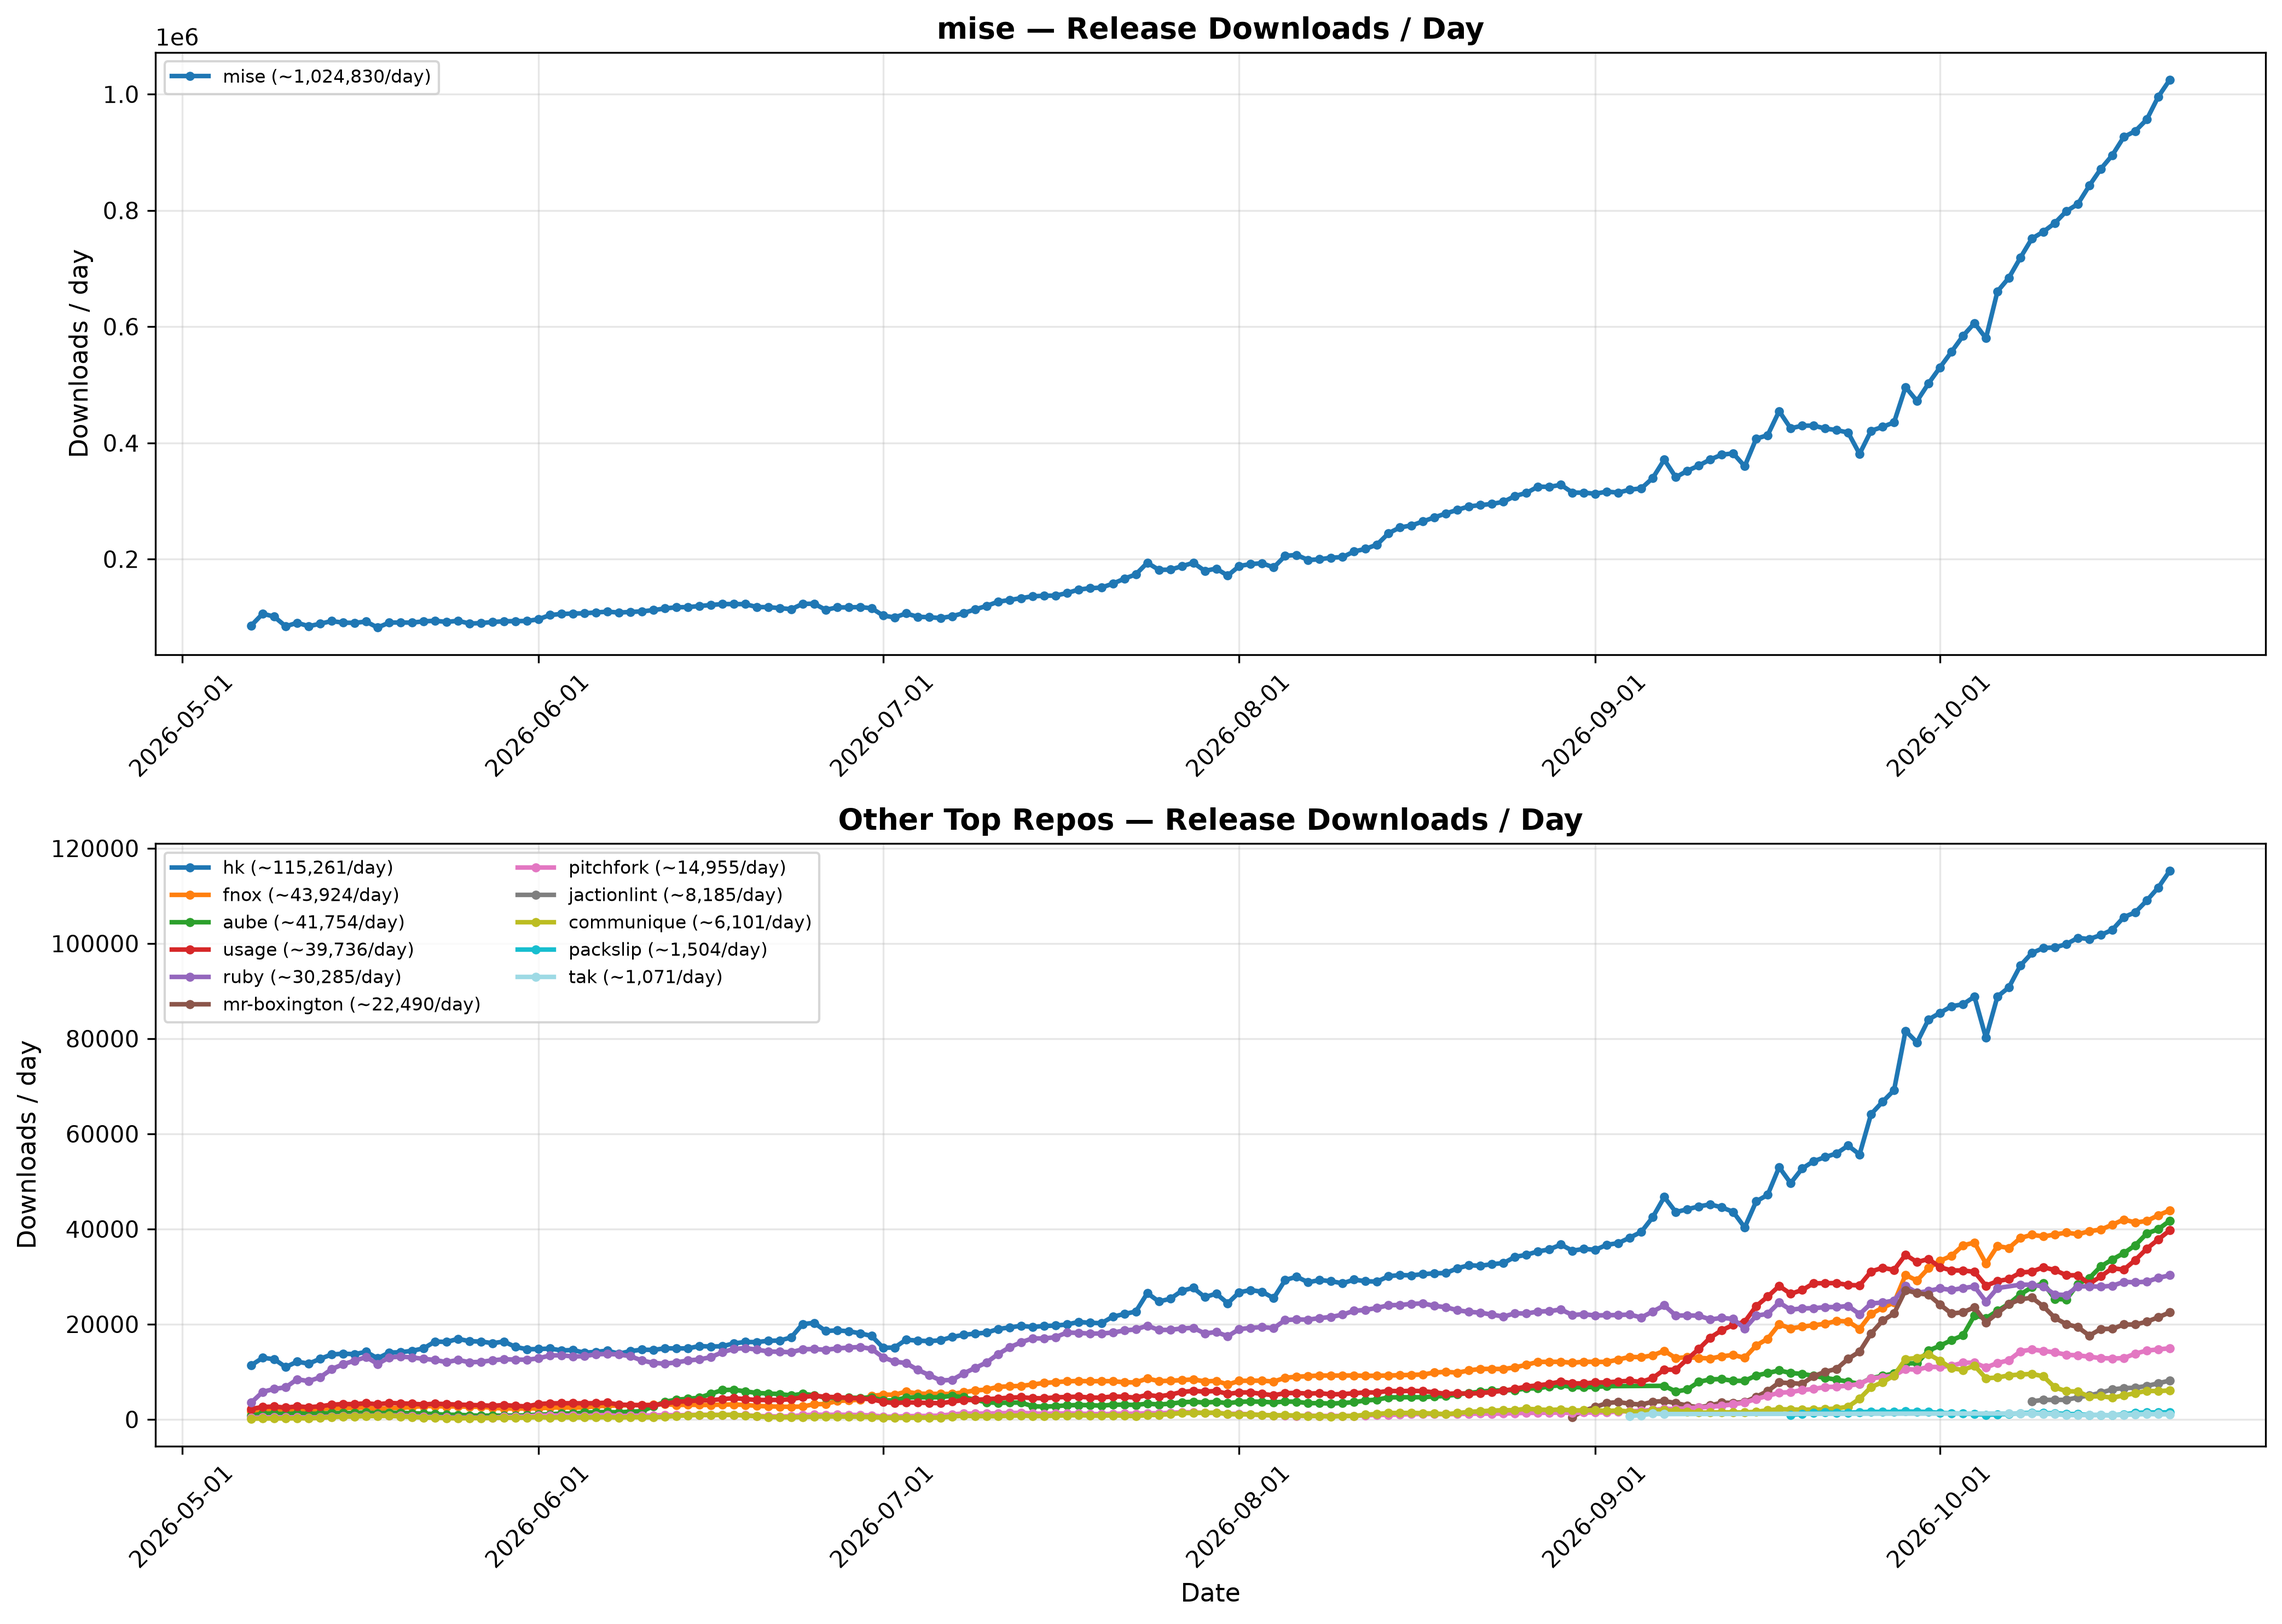
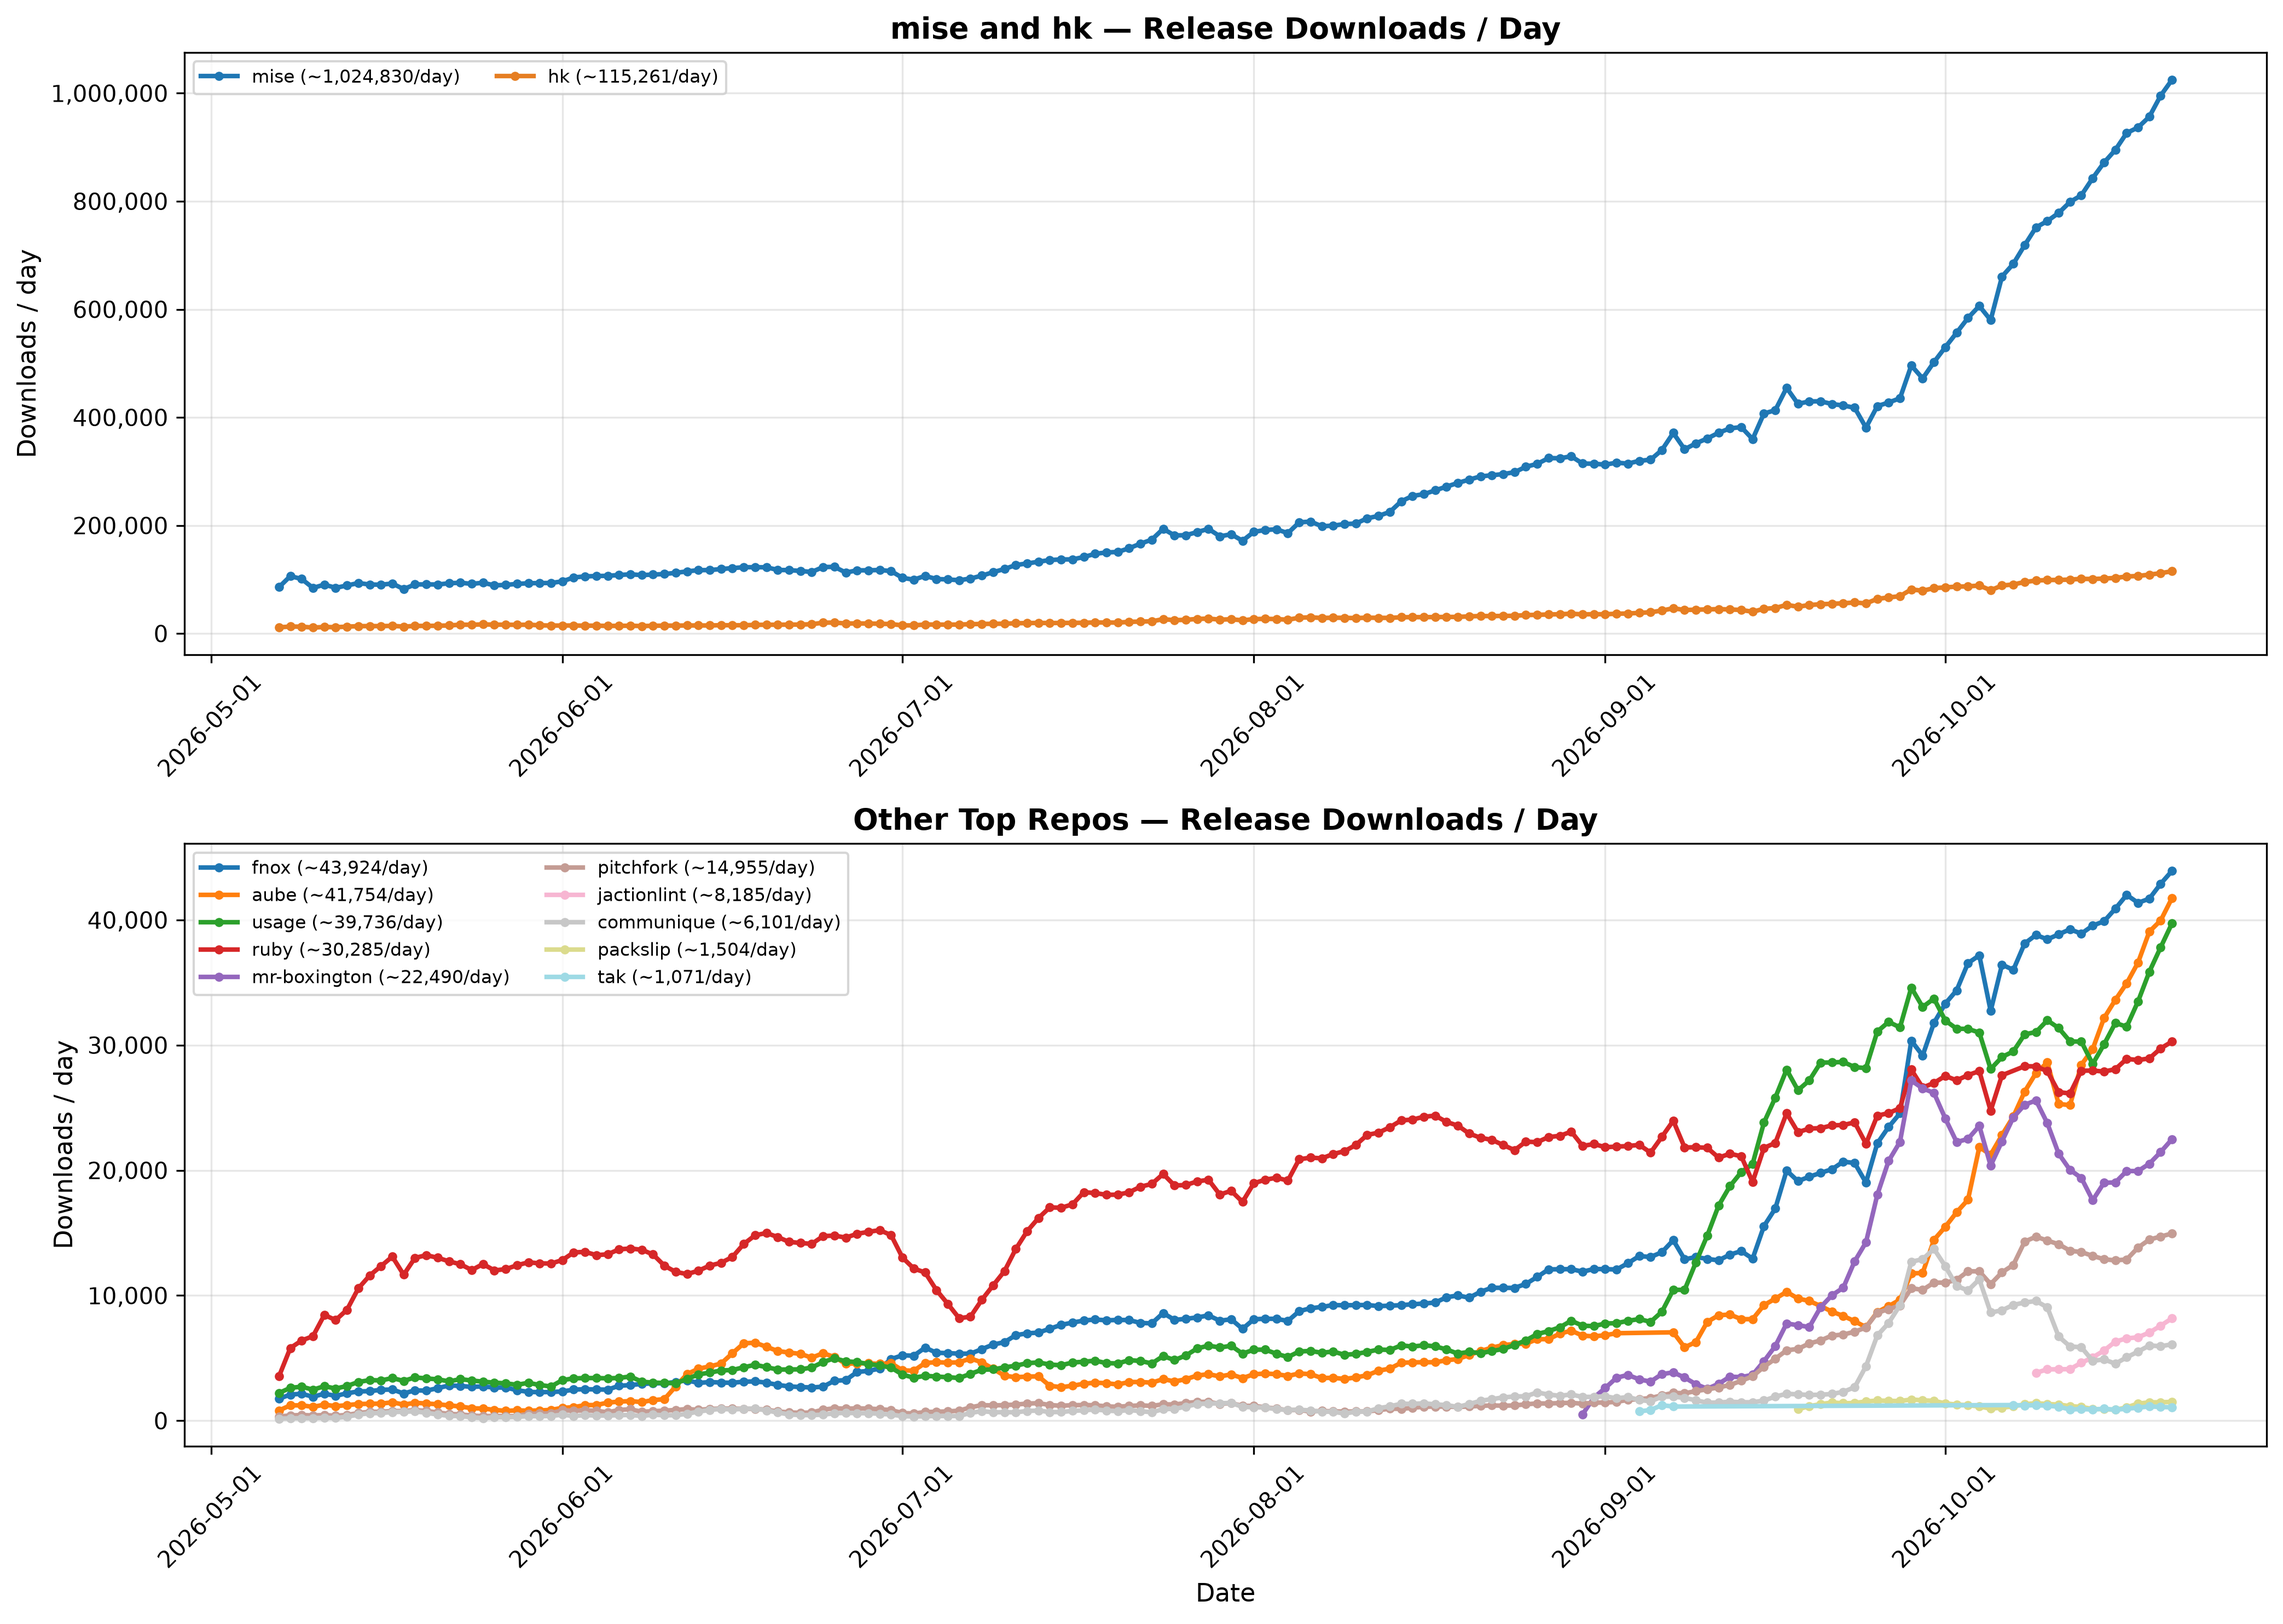
Plot hk downloads on the mise panel and use plain y-axis numbers

diff --git a/mise-tasks/plot-top-repos-downloads.py b/mise-tasks/plot-top-repos-downloads.py
@@ -9,6 +9,7 @@ import matplotlib.pyplot as plt
 import numpy as np
 import pandas as pd
 from matplotlib.dates import DateFormatter
+from matplotlib.ticker import FuncFormatter
 
 DEFAULT_OWNER = "jdx"
 CANONICAL_REPOS = {
@@ -21,6 +22,7 @@ CSV_PATH = REPO_ROOT / "top-repos-downloads.csv"
 LIST_PATH = REPO_ROOT / "top-repos-list.txt"
 OUT_PATH = REPO_ROOT / "charts" / "top_repos_downloads.png"
 ROLLING_WINDOW = 7
+MISE_PANEL_REPOS = ["mise", "hk"]
 
 
 def canonical_repo_name(owner, repo):
@@ -96,6 +98,7 @@ def plot_panel(ax, repos, df, colors, title):
         plotted_any = True
 
     ax.set_ylabel("Downloads / day", fontsize=11)
+    ax.yaxis.set_major_formatter(FuncFormatter(lambda y, _: f"{y:,.0f}"))
     ax.set_title(title, fontsize=13, fontweight="bold")
     ax.grid(True, alpha=0.3)
     if plotted_any:
@@ -136,7 +139,7 @@ def main():
     others = [
         repo
         for repo in tracked
-        if repo != "mise" and latest_downloads.get(repo, 0) > 0
+        if repo not in MISE_PANEL_REPOS and latest_downloads.get(repo, 0) > 0
     ]
     latest_velocities = {}
     for repo in others:
@@ -151,12 +154,14 @@ def main():
 
     fig, (ax_mise, ax_others) = plt.subplots(2, 1, figsize=(14, 10))
 
-    mise_colors = ["#1f77b4"]
+    mise_colors = ["#1f77b4", "#E67E22"]
     other_colors = plt.cm.tab20(
         np.linspace(0, 1, max(len(others_by_velocity), 1))
     )
 
-    plot_panel(ax_mise, ["mise"], df, mise_colors, "mise — Release Downloads / Day")
+    plot_panel(
+        ax_mise, MISE_PANEL_REPOS, df, mise_colors, "mise and hk — Release Downloads / Day"
+    )
     plot_panel(
         ax_others,
         others_by_velocity,
